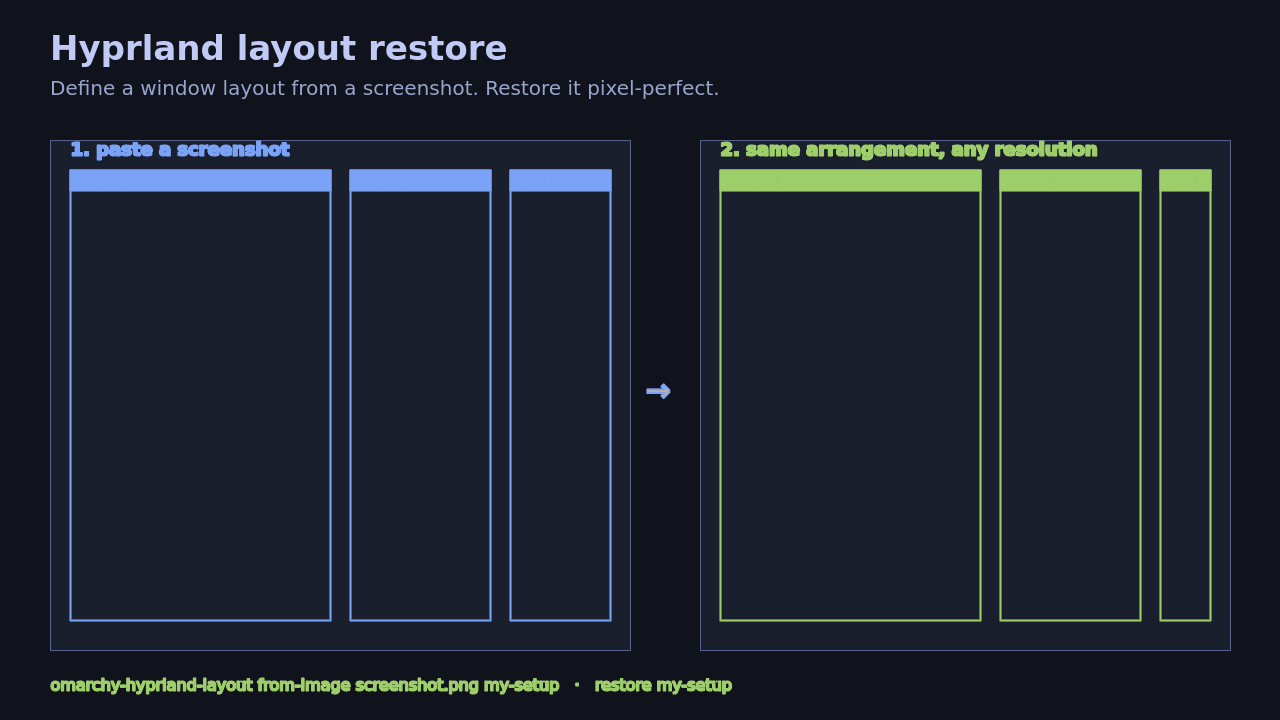
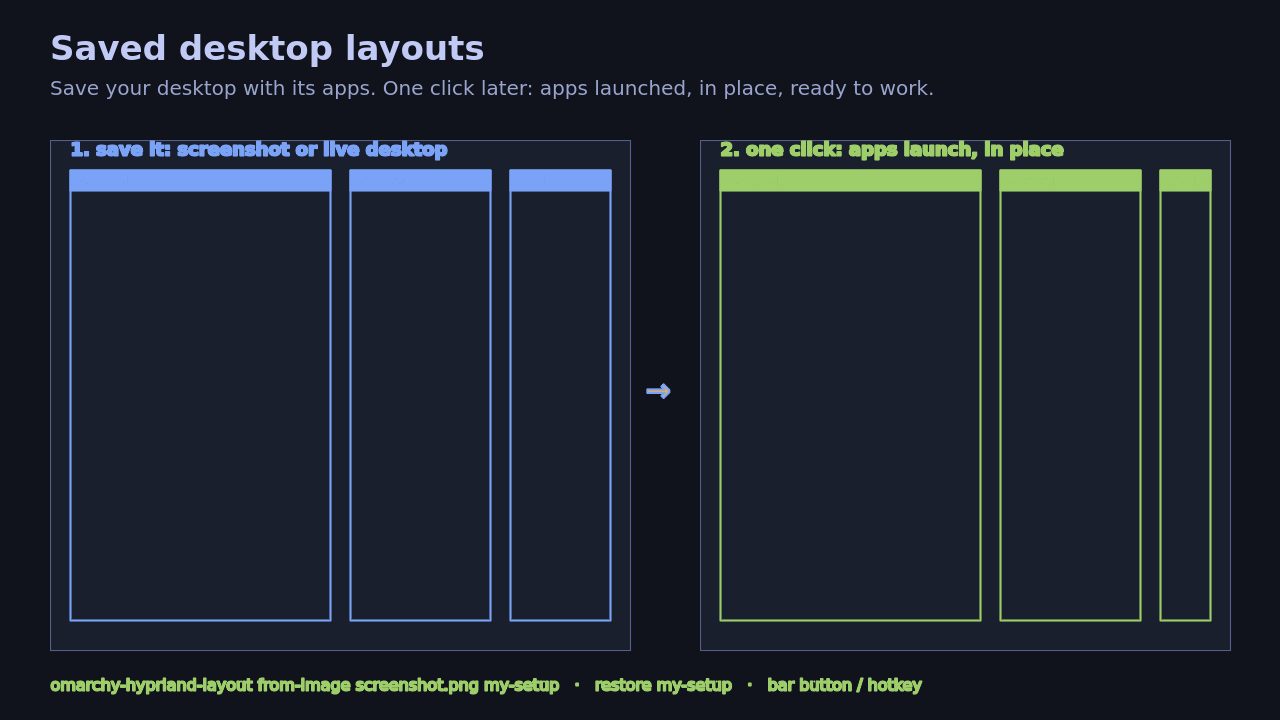
Rename: Saved desktop layouts — restore launches assigned apps, desktop ready to work

diff --git a/BarWidget.qml b/BarWidget.qml
@@ -30,7 +30,7 @@ BarWidget {
     anchors.fill: parent
     bar: root.bar
     text: ""
-    tooltipText: "Restore last window layout (right-click: list layouts)"
+    tooltipText: "Restore saved desktop — apps launch in place (right-click: list layouts)"
     onPressed: function(b) {
       if (b === Qt.RightButton) {
         if (!listProc.running) listProc.running = true

diff --git a/README.md b/README.md
@@ -1,7 +1,9 @@
-# Hyprland layout restore
+# Saved desktop layouts
 
-Define a window layout by **pasting a screenshot** of your desktop, then restore
-that exact arrangement any time — from the bar or a keybind.
+Save your desktop — the arrangement **and the apps assigned to it** — by
+pasting a screenshot or snapshotting what is on screen. Then one click on the
+bar (or a hotkey) brings it all back: missing apps launch, every window lands
+exactly where you left it. Desktop ready to work.
 
 The bundled CLI (`bin/omarchy-hyprland-layout`) works on any Hyprland with the
 Lua config API (Omarchy). Geometry is stored **relative** (percent of the
@@ -15,7 +17,7 @@ omarchy-hyprland-layout from-image screenshot.png my-setup
 #    A vision model detects every window region; you tell it which app
 #    belongs in each one (by name if it is running, or a launch command).
 
-# 2. Restore it — windows are moved, sized and launched to match:
+# 2. Restore it — assigned apps launch and land exactly where they belong:
 omarchy-hyprland-layout restore my-setup
 
 # Other commands:
